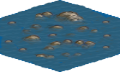
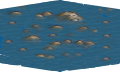
pixi show tiles and objects

Changed region(s): [[0.0, 0.0, 1.0, 0.2778], [0.55, 0.7222, 1.0, 1.0], [0.0, 0.75, 0.475, 1.0]]

diff --git a/pixijs-client/src/theworld.js b/pixijs-client/src/theworld.js
@@ -9,6 +9,8 @@ class TheWorld {
    //this.worldTiles[width][height];// form 0,0 as left top point
    //console.log("Size of map: " + this.sizeXY*this.sizeXY);
    //this.test();
+   this.loadObjectsMockup();
+    this.loaded = true;
  }
 
  loadTiles(){
@@ -24,15 +26,36 @@ class TheWorld {
    xhr.send();
  }
 
+ loadObjects(){
+
+
+ }
+
+ loadObjectsMockup(){
+   let jsonData = [
+     ['', '', '', '', '', '', '', '', '', ''],
+     ['', '', '', '', '', '', '', '', '', ''],
+     ['', 's', '', '', '', '', '', '', '', ''],
+      ['s', 'l', 'm', '', '', '', '', '', '', ''],
+      ['m', 'l', 'l', '', '', '', '', 'c', 'c', 'c'],
+      ['m', 'l', 's', '', '', '', '', 'c', 'c', ''],
+      ['', 'm', 'm', '', '', '', '', 'c', 'w', ''],
+      ['', 's', '', '', '', '', '', 'c', 'c', ''],
+      ['', '', '', '', '', '', '', '', '', ''],
+      ['', '', '', '', '', '', '', '', '', '']
+   ];
+   this._createObjects(jsonData);
+ }
+
  loadTilesMockup(){
    let jsonData = [
      ['p', 'p', 'p', 'm', 'm', 'h', 'h', 'p', 'p', 'p'],
-     ['p', 'p', 'p', 'm', 'm', 'h', 'h', 'p', 'p', 'p'],
-     ['p', 'p', 'p', 'h', 'm', 'h', 'h', 'p', 'p', 'p'],
-     ['p', 'p', 'p', 'h', 'h', 'h', 'h', 'p', 'p', 'p'],
-     ['p', 'p', 'p', 'p', 'p', 'h', 'h', 'p', 'p', 'p'],
-     ['p', 'p', 'p', 'p', 'p', 'p', 'p', 'p', 'p', 'p'],
-     ['p', 'p', 'p', 'p', 'p', 'h', 'p', 'p', 'p', 'p'],
+     ['p', 'p', 'p', 'm', 'm', 'h', 'h', 'w', 'w', 'p'],
+     ['s', 'p', 'p', 'h', 'm', 'h', 'h', 'p', 'f', 'p'],
+     ['s', 's', 'p', 'h', 'h', 'h', 'h', 'p', 'p', 'p'],
+     ['p', 's', 'p', 'p', 'p', 'h', 'h', 'p', 'p', 'p'],
+     ['p', 'p', 'p', 'p', 'p', 'p', 'p', 'u', 'u', 'p'],
+     ['p', 'p', 'p', 'p', 'p', 'h', 'u', 'u', 'p', 'p'],
      ['p', 'p', 'p', 'p', 'h', 'p', 'p', 'p', 'p', 'p'],
      ['p', 'p', 'p', 'h', 'p', 'h', 'h', 'p', 'p', 'p'],
      ['p', 'p', 'h', 'm', 'm', 'h', 'h', 'p', 'p', 'p'],
@@ -41,16 +64,34 @@ class TheWorld {
 
  }
 
+ _createObjects(jsonData){
+   this.worldObjects = new Array(this.X);
+   for(let i = 0; i < this.X; i++){
+     this.worldObjects[i] = new Array(this.Y);
+   }
+   for(let i = 0; i < this.X; i++){
+    for(let j = 0; j < this.Y; j++) this.worldObjects[i][j] = jsonData[i][j];
+  }
+
+ }
+
  _createWorld(jsonData){
    //x rows, y cols
-   this.X = jsonData.length;
-   this.Y = jsonData[0].length;
+   this.Y = jsonData.length;
+   this.X = jsonData[0].length;
+   //console.log("size of data: " + this.X + " " + this.Y);
    this.worldTiles = new Array(this.X);
+   //console.log(this.worldTiles.length);
    for(let i = 0; i < this.X; i++){
-     this.worldTiles[i].push(new Array(this.Y));
+     this.worldTiles[i] = new Array(this.Y);
    }
-   console.log("_createWorld X " + this.X + " Y " + this.Y);
-   this.loaded = true;
+   for(let i = 0; i < this.X; i++){
+    for(let j = 0; j < this.Y; j++) this.worldTiles[i][j] = jsonData[i][j];
+  }
+  //for(let i in this.worldTiles)
+    // for(let j in this.worldTiles[i]) console.log(this.worldTiles[i][j]);
+   //console.log("_createWorld X " + this.X + " Y " + this.Y);
+
  }
 
 }

diff --git a/pixijs-client/src/map.js b/pixijs-client/src/map.js
@@ -1,18 +1,21 @@
 class MapWorld {
   constructor(grid, X, Y, container, resources){
     this.grid = grid;
-    this.X = X;
-    this.Y = Y;
     this.container = container;
     this.resources = resources;
-    console.log("Start Map of World: " + this.X + " x " + this.Y);
     //let worldsMap = new WorldMap();
     //this.drawMap(worldsMap.worldTiles);
-    this.worldData = new TheWorld(X, Y);
-    //while(!this.worldData.loaded){}
+    this.worldData = new TheWorld();
+    while(!this.worldData.loaded){
+      console.log("waiting");
+    }
+    //X columns Y rows
+    this.X = this.worldData.X;
+    this.Y = this.worldData.Y;
+    //console.log(this.X + " and " + this.Y);
     this.startX = 0;
     this.startY = 0;
-    this.drawMapTimeout();
+    this.drawMap();//chaange to drawMapTimeout
   }
 
   drawMapTimeout(){
@@ -35,36 +38,44 @@ class MapWorld {
 
     let tile = "";
     console.log(this.worldData.worldTiles.length);
-    for(let i = 0; i < this.X; i++){
-      for(let j = 0; j < this.Y; j++){
+    for(let i = 0; i < this.Y; i++){
+      for(let j = 0; j < this.X; j++){
         tile = this.worldData.worldTiles[startY+i][startX+j];
+        //console.log(tile);
         const sprite = new PIXI.Sprite(this._getTileTexture(tile));
         sprite.anchor.set(0.5);
-        const p = this.grid.getCenterOfPoolInPixels(i, j);
+        const p = this.grid.getCenterOfPoolInPixels(j, i);
         sprite.x = p.x;
         sprite.y = p.y;
         this.container.addChild(sprite);
         //console.log("Title added at " + i + "," + j);
         //console.log(p);
+        tile = this.worldData.worldObjects[startY+i][startX+j];
+        if(tile == '') continue;
+        const objSprite = new PIXI.Sprite(this._getTileTexture(tile));
+        objSprite.anchor.set(0.5);
+        objSprite.x = p.x;
+        objSprite.y = p.y;
+        this.container.addChild(objSprite);
       }
     }
   }
 
   scrollUp(){
-    if(this.startX >= 2) this.startX -= 2;
+    if(this.startY >= 2) this.startY -= 2;
     this.drawMap();
   }
 
   scrollDown(){
-    if(this.startX <= 88) this.startX += 2;
+    if(this.startY <= this.Y-12) this.startY += 2;
     this.drawMap();
   }
   scrollLeft(){
-    if(this.startY >= 2) this.startY -= 2;
+    if(this.startX >= 2) this.startX -= 2;
     this.drawMap();
   }
   scrollRight(){
-    if(this.startY <= 88) this.startY += 2;
+    if(this.startX <= this.X-12) this.startX += 2;
     this.drawMap();
   }
 
@@ -75,6 +86,12 @@ class MapWorld {
     else if(tile == 'm') return this.resources.m.texture;
     else if(tile == 's') return this.resources.s.texture;
     else if(tile == 'f') return this.resources.f.texture;
+    else if(tile == 'u') return this.resources.u.texture;
+    else if(tile == 'ol') return this.resources.ol.texture;
+    else if(tile == 'om') return this.resources.om.texture;
+    else if(tile == 'os') return this.resources.os.texture;
+    else if(tile == 'oc') return this.resources.oc.texture;
+    else if(tile == 'ov') return this.resources.ov.texture;
     else return this.resources.p.texture;
 
   }

diff --git a/pixijs-client/src/main.js b/pixijs-client/src/main.js
@@ -21,7 +21,13 @@ class Main {
         {"name":"p", "url":"img/plain_120x72.png"},
         {"name":'m', "url":"img/mountain_120x72.png"},
         {"name":"s", "url":"img/steppe_120x72.png"},
-        {"name":"f", "url":"img/ford_120x72.png"}
+        {"name":"f", "url":"img/ford_120x72.png"},
+        {"name":"u", "url":"img/humus_120x72.png"},
+        {"name":'oc', "url":"img/corn_120x72.png"},
+        {"name":'ov', "url":"img/village.png"},
+        {"name":'ol', "url":"img/forest_l.png"},
+        {"name":'om', "url":"img/forest_m.png"},
+        {"name":'os', "url":"img/forest_s.png"}
       ]);
       let self = this;
     this.app.loader.load((loader, resources) => {
@@ -55,10 +61,10 @@ class Main {
 
  scrollCover(self){
    console.log("start scroll cover");
-   document.getElementById('scrollUp').onclick =  function() {self.mkScrollUp(self)};
-   document.getElementById('scrollDown').onclick =  function() {self.mkScrollDown(self)};
-   document.getElementById('scrollLeft').onclick = function() {self.mkScrollLeft(self)};
-   document.getElementById('scrollRight').onclick =  function() {self.mkScrollRight(self)};
+   document.getElementById('scrollUp').onmouseover =  function() {self.mkScrollUp(self)};
+   document.getElementById('scrollDown').onmouseover =  function() {self.mkScrollDown(self)};
+   document.getElementById('scrollLeft').onmouseover = function() {self.mkScrollLeft(self)};
+   document.getElementById('scrollRight').onmouseover =  function() {self.mkScrollRight(self)};
  }
 
  mkScrollUp(self){ self.mapWorld.scrollUp();}
